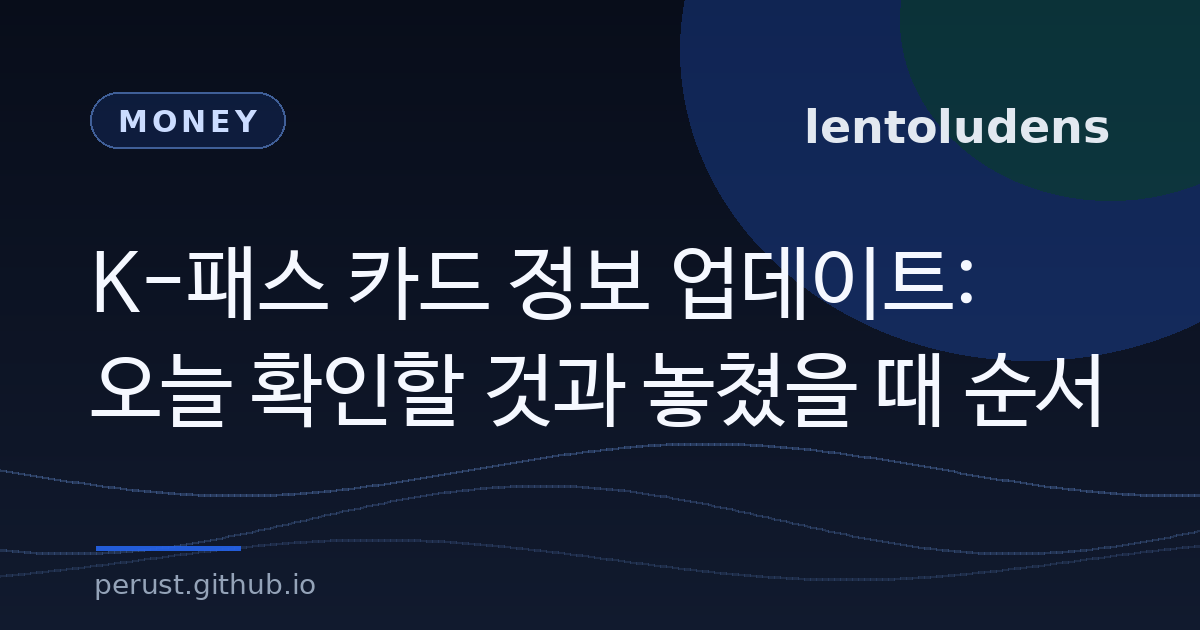
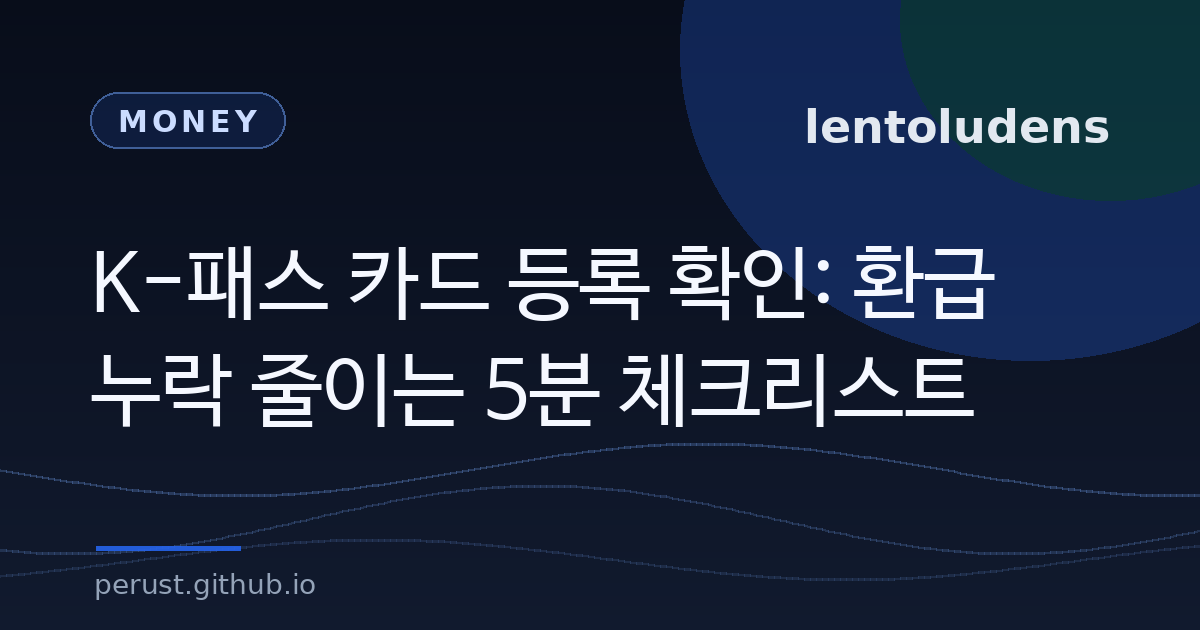
Clarify K-pass card checklist focus

Changed region(s): [[0.0617, 0.5429, 0.925, 0.6937], [0.4317, 0.3921, 0.8325, 0.5127]]

diff --git a/src/content/blog/2026-07-07-kpass-card-update-checklist.md b/src/content/blog/2026-07-07-kpass-card-update-checklist.md
@@ -1,39 +1,48 @@
 ---
-title: "K-패스 카드 정보 업데이트: 오늘 확인할 것과 놓쳤을 때 순서"
-description: "K-패스·모두의 카드 정보 업데이트 안내를 보고 퇴근길에 확인할 카드, 앱 설정, 환급 불이익 가능성, 놓쳤을 때의 처리 순서를 정리했습니다."
+title: "K-패스 카드 등록 확인: 환급 누락 줄이는 5분 체크리스트"
+description: "K-패스 환급이 자동으로 빠지지 않게 등록 카드, 본인인증, 약관 동의, 이용 내역 반영 여부를 5분 안에 확인하는 순서를 정리했습니다."
 date: "2026-07-07T18:40:00+09:00"
 category: "Money"
 tags: ["K패스", "교통비", "대중교통", "체크카드", "신용카드", "환급", "생활비"]
 ---
 
-K-패스나 모두의 카드처럼 대중교통 할인·환급을 받는 카드는 “한 번 등록해두면 끝”이라고 생각하기 쉽습니다. 하지만 카드 정보 업데이트, 카드사 변경, 앱 약관 동의, 본인인증이 중간에 걸리면 실제 환급이나 할인 적용에서 문제가 생길 수 있습니다.<br />
-특히 2026년 7월 7일을 전후해 ‘모두의 카드 정보 업데이트’와 ‘9월까지 반값 혜택’ 안내가 함께 나오면서, 퇴근길에 앱을 열어 확인하려는 사람이 많아질 만한 상황입니다. 오늘 할 일은 복잡하지 않습니다. 내가 쓰는 교통카드가 앱에 제대로 잡혀 있는지, 카드 정보 업데이트가 필요한지, 혜택 적용 조건을 아직 만족하는지 확인하면 됩니다.
+K-패스 글의 핵심은 “오늘 안에 무조건 뭘 하지 않으면 혜택이 사라진다”가 아닙니다.<br />
+실제로 대중교통을 찍는 카드와 K-패스 앱에 등록된 카드가 같은지, 본인인증·약관 동의·카드 정보 업데이트 알림이 남아 있지 않은지 확인하자는 내용입니다.<br />
+카드를 새로 만들었거나, 재발급받았거나, 휴대폰을 바꿨거나, 여러 교통카드를 번갈아 쓰는 사람은 환급 집계가 꼬일 수 있습니다. 그래서 퇴근길에 5분 정도 앱에서 상태를 확인하면 다음 달에 “왜 환급이 안 됐지?” 하고 다시 찾는 일을 줄일 수 있습니다.
 
 ## 먼저 볼 결론
 
 <ul class="issue-list">
   <li class="issue-card">
-    <span class="issue-badge">오늘 할 일</span>
-    <h3>앱에서 카드 상태 확인</h3>
-    <p class="issue-summary">K-패스 또는 관련 앱에 들어가 등록 카드, 본인인증, 약관 동의, 카드 정보 업데이트 알림을 먼저 봅니다.</p>
+    <span class="issue-badge">주 내용</span>
+    <h3>환급 누락을 막는 등록 상태 확인</h3>
+    <p class="issue-summary">K-패스 글은 긴급 경고가 아니라, 앱에 등록된 카드와 실제 교통카드가 맞는지 확인하는 체크리스트입니다.</p>
   </li>
   <li class="issue-card">
-    <span class="issue-badge">헷갈리는 점</span>
+    <span class="issue-badge">꼭 확인</span>
     <h3>카드 발급과 혜택 적용은 별개</h3>
-    <p class="issue-summary">카드를 갖고 있어도 앱 등록, 이용 실적, 지원 조건이 맞지 않으면 기대한 만큼 환급·할인이 적용되지 않을 수 있습니다.</p>
+    <p class="issue-summary">K-패스 카드를 갖고 있어도 앱 등록, 이용 실적, 지원 조건이 맞지 않으면 기대한 만큼 환급·할인이 적용되지 않을 수 있습니다.</p>
   </li>
   <li class="issue-card">
     <span class="issue-badge">놓쳤을 때</span>
-    <h3>재등록보다 상태 확인이 먼저</h3>
-    <p class="issue-summary">급하게 새 카드부터 신청하지 말고, 기존 카드가 유효한지와 앱 안내 문구를 확인한 뒤 카드사·고객센터 안내를 봅니다.</p>
+    <h3>새 카드 신청보다 상태 확인이 먼저</h3>
+    <p class="issue-summary">하루 놓쳤다고 바로 새 카드부터 만들 필요는 없습니다. 앱의 등록 상태와 안내 문구를 먼저 확인합니다.</p>
   </li>
 </ul>
 
+## 무엇을 말하는 글인가
+
+이 글은 K-패스 제도 전체를 설명하는 글이 아니라, 이미 K-패스를 쓰거나 쓰려는 사람이 앱에서 확인할 항목을 정리한 글입니다.<br />
+핵심은 등록 카드, 본인인증, 약관 동의, 이용 내역 반영 여부입니다. 이 네 가지가 맞아야 내가 실제로 찍은 교통비가 혜택 계산에 제대로 들어갑니다.
+
 ## 왜 지금 확인해야 하나
 
-K-패스 계열 혜택은 매일 쓰는 교통비와 연결됩니다. 금액이 한 번에 크게 나가는 세금이나 보험료와 달리, 출퇴근 교통비는 작은 금액이 반복해서 쌓입니다. 그래서 카드 정보가 잘못되어 있거나 혜택 적용이 끊기면 한 달 뒤에야 체감하는 경우가 많습니다.
+K-패스 계열 혜택은 매일 쓰는 교통비와 연결됩니다.<br />
+금액이 한 번에 크게 나가는 세금이나 보험료와 달리, 출퇴근 교통비는 작은 금액이 반복해서 쌓입니다.<br />
+그래서 카드 정보가 잘못되어 있거나 혜택 적용이 끊기면 한 달 뒤에야 체감하는 경우가 많습니다.
 
-최근 [대한민국 정책브리핑의 관련 안내](https://news.google.com/rss/articles/CBMiaEFVX3lxTFBIdXVNUHRUeHhOaUlOOFZEcHljOGpvbkRtOHlkNFd1ZTFZUVQ5RWdZV09GUHUxZGNGMFgwWFhCQlBJSVFRbkJaVnVtRUMtMnBFSktKN3hyS2U1bktZNElRbzBoaWFFZFNq?oc=5)는 ‘모두의 카드’ 정보 업데이트와 9월까지의 반값 혜택을 함께 다뤘습니다. 기사 제목만 보고 “나도 자동으로 되겠지”라고 넘기기보다, 실제로 내 계정에서 카드 정보가 최신 상태인지 확인하는 편이 안전합니다.
+관련 안내에서 카드 정보 업데이트와 교통비 혜택이 함께 언급되면, 사용자는 “내 카드도 뭔가 해야 하나?”를 먼저 궁금해합니다.<br />
+이때 중요한 것은 모든 사람이 새 카드를 만들거나 긴급 조치를 해야 한다는 뜻이 아닙니다. 실제로 내 계정에서 카드 정보가 최신 상태인지 확인하는 것이 먼저입니다.
 
 여기서 중요한 것은 혜택 이름보다 내 상태입니다. K-패스, 카드사 앱, 간편결제, 교통카드 기능이 서로 맞물리면 사용자는 같은 카드처럼 느끼지만, 등록 정보는 앱마다 따로 관리될 수 있습니다. 카드를 바꿨거나 휴대폰을 바꿨거나 본인인증을 다시 한 적이 있다면 특히 확인이 필요합니다.
 
@@ -74,9 +83,10 @@ K-패스 계열 혜택은 매일 쓰는 교통비와 연결됩니다. 금액이 
 
 K-패스의 기본 제도와 대상은 [K-패스 공식 홈페이지](https://korea-pass.kr/)에서 확인하는 것이 안전합니다. 다만 공식 사이트나 앱 접속이 몰릴 수 있으니, 오류가 나면 잠시 뒤 다시 접속하고 카드사 앱 공지도 함께 확인하는 편이 좋습니다.
 
-## 오늘 놓쳤다면 할 일
+## 놓쳤다면 할 일
 
-7월 7일 같은 날짜가 붙은 안내를 놓쳤다고 해서 바로 혜택이 영구히 사라진다고 단정할 필요는 없습니다. 먼저 앱에 들어가 내 카드 상태와 공지 문구를 확인해야 합니다. 안내 문구가 “업데이트 필요”인지, “재등록 필요”인지, “혜택 적용 제외”인지에 따라 다음 행동이 달라집니다.
+날짜가 붙은 안내를 놓쳤다고 해서 바로 혜택이 영구히 사라진다고 단정할 필요는 없습니다.<br />
+먼저 앱에 들어가 내 카드 상태와 공지 문구를 확인해야 합니다. 안내 문구가 “업데이트 필요”인지, “재등록 필요”인지, “혜택 적용 제외”인지에 따라 다음 행동이 달라집니다.
 
 놓친 뒤에는 아래 순서가 현실적입니다.
 
@@ -102,14 +112,15 @@ K-패스의 기본 제도와 대상은 [K-패스 공식 홈페이지](https://ko
 
 ## 출퇴근자 체크리스트
 
-이번 주에는 아래 네 가지만 정리해도 충분합니다.
+꼭 확인해야 할 것은 아래 네 가지입니다.
 
 - 실제로 버스·지하철을 찍는 카드가 무엇인지 확인
 - K-패스 또는 관련 앱의 등록 카드와 같은지 확인
 - 카드 정보 업데이트·재인증·약관 동의 알림 확인
 - 다음 달까지 쓸 교통카드를 하나로 정리
 
-교통비 혜택은 큰 재테크처럼 보이지 않지만, 매달 반복되는 고정비를 줄이는 일입니다. 특히 7월에는 재산세, 부가세, 여름 전기요금처럼 생활비가 겹치기 쉽습니다. 대중교통 카드는 오늘 5분만 확인해도 다음 달에 “왜 적용이 안 됐지?” 하고 다시 찾아보는 일을 줄일 수 있습니다.
+교통비 혜택은 큰 재테크처럼 보이지 않지만, 매달 반복되는 고정비를 줄이는 일입니다.<br />
+이 글에서 말하는 “놓치지 말 것”은 새 혜택을 급하게 신청하라는 뜻이 아니라, 내가 실제로 쓰는 교통카드가 K-패스 앱과 카드사 기준에서 정상 등록되어 있는지 확인하라는 뜻입니다.
 
 ## 참고한 공식·공개 자료
 
